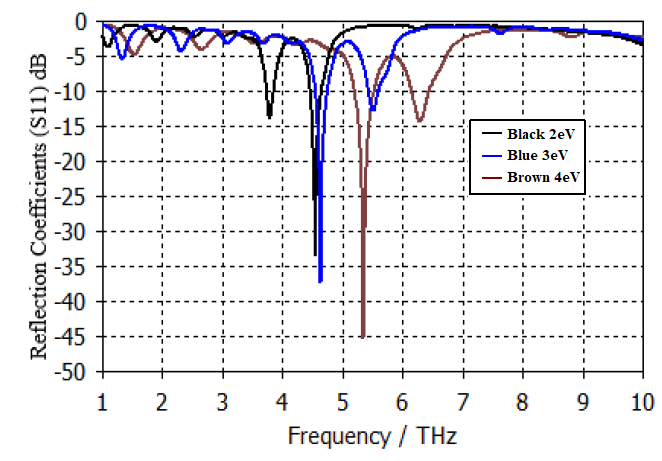
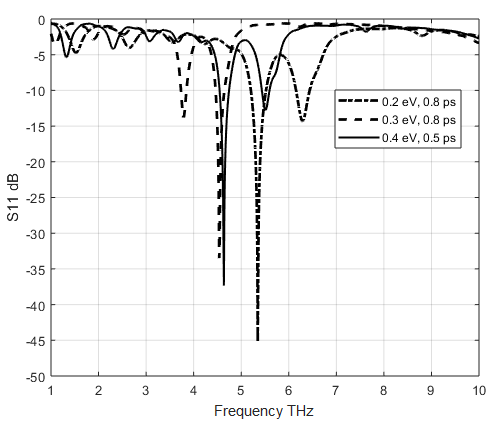
Conclusion

Changed region(s): [[0.0, 0.0308, 1.0, 0.955], [0.4167, 0.9242, 0.6845, 0.9858]]

diff --git a/des-template.tex b/des-template.tex
@@ -31,16 +31,7 @@
 % 
 % 
 Terahertz (THz) waves also known as sub-millimeter waves are observed between the optical and microwave frequency regions of the electromagnetic spectrum \cite{liu2009advanced,grischkowsky1990far}. Devices operating in the optical and infrared spectra are generally characterized by electromagnetic beams that contain many modes, and the dimensions of such devices is typically much larger than the operating wavelength. On the contrary, THz frequency based devices are comparable in size to the operating wavelength \cite{shi2018thz}. Such devices have the potential to fulfil the future wireless communications needs of ultra-high bandwidths and date rates. Moreover, the problems of channel congestion can be overcome through the use of THz based communication systems. 
-There has been an ever increasing demand of the data-based wireless communication in the past decade. Moreover, throughout the world urban population has been growing at an alarming rate. These two factors have created enormous challenges in implementing high-speed and reliable networks that can serve a large number of people at the same time \cite{song2011present}. A natural solution to overcome this challenge is to shift the network operating frequency to the THz region. However, with the available technologies, THz systems are affected by high atmospheric attenuation, and therefore, much lower propagation distances. Hence, there is a demand for novel techniques through which the performance of a THz based communication system can be increased. To do so, micro and nano scale device fabrication techniques have actively been studied of late. Additionally, the search for highly conductive materials is an active research area to develop efficient THz devices.
-
-In conventional wireless communication systems, metallic antennas are fabricated separately from the microelectronics. It is not currently possible to operate circuitry in the THz frequency region simply by down-scaling the traditional metallic antenna to a few micrometres \cite{kleine2011review}. By moving up in the frequency, the device physics changes drastically and the approach of using a metal based antenna has several limitations, chief among them is the low mobility of electrons in the nano-scale metallic structures. This results in the antennas being highly lossy at the resonant frequencies, which would result in high attenuation and subsequently, poor efficiency of the overall system \cite{pourahmadazar2018millimeter}. To address this lossy behaviour, meta-material based nano-structures have emerged as attractive solutions \cite{chen2006active}.
-% 
-% 
-% 
-\section{Terahertz Antenna Designs}
-% 
-\subsection{Graphene based Terahertz Antenna}
-% 
+There has been an ever increasing demand of the data-based wireless communication in the past decade. Moreover, throughout the world urban population has been growing at an alarming rate. These two factors have created enormous challenges in implementing high-speed and reliable networks that can serve a large number of people at the same time \cite{song2011present}. A natural solution to overcome this challenge is to shift the network operating frequency to the THz region. However, with the available technologies, THz systems are affected by high atmospheric attenuation, and therefore, much lower propagation distances. Hence, there is a demand for novel techniques through which the performance of a THz based communication system can be increased. To do so, micro and nano scale device fabrication techniques have actively been studied of late. Additionally, the search for highly conductive materials is an active research area to develop efficient THz devices.In conventional wireless communication systems, metallic antennas are fabricated separately from the microelectronics. It is not currently possible to operate circuitry in the THz frequency region simply by down-scaling the traditional metallic antenna to a few micrometres \cite{kleine2011review}. By moving up in the frequency, the device physics changes drastically and the approach of using a metal based antenna has several limitations, chief among them is the low mobility of electrons in the nano-scale metallic structures. This results in the antennas being highly lossy at the resonant frequencies, which would result in high attenuation and subsequently, poor efficiency of the overall system \cite{pourahmadazar2018millimeter}. To address this lossy behaviour, meta-material based nano-structures have emerged as attractive solutions \cite{chen2006active}.
 Graphene is an atomically thin, two-dimensional crystalline form of carbon in which the carbon atoms are arranged in a hexagonal lattice structure. It was discovered in 2004 by Novoselov and Geim, who peeled off a small amount of monolayer graphene with the help of an adhesive tape, therefore, obtaining free-standing graphene in air \cite{novoselov2004electric}. For their ground-breaking discovery, they were awarded the Nobel Prize in Physics in 2010. Graphene is considered one of the thinnest yet in terms of mechanical properties, the strongest material measured  \cite{campos2008bulk,lee2013high}. Its theoretical specific surface area is as high as \SI{2630}{\square\m\per\gram}, thermal conductivity as high as \SI{5300}{\W \per \m \per \K}, which is higher than that of carbon nano-tube and diamond. In terms of electromagnetic properties, it is almost completely transparent, absorbing only \SI{2.3}{\percent} of light. On the other hand, graphene also has a very high electron mobility of \SI{15000}{\square \cm \per\V \per \siemens} at room temperature, which is higher than that of carbon nanotube or crystalline silicon \cite{ju2011graphene}. Nonetheless, the electrical resistivity of graphene is of the order of \SI{1e-6}{\ohm \cm} lower than copper and silver, which are the considered the best conducting materials. All these attractive characteristics enable graphene to display extra-ordinary electromagnetic phenomena. When an electromagnetic wave especially in the THz frequency range is obliquely incident wave upon graphene, surface plasmon polaritons (SPPs) are excited. Due to the high conductivity of graphene, the SPPs are tightly confined to the graphene surface having wavelength much smaller than its free-space equivalent. Moreover, the graphene SPPs exhibit moderate loss, and a vital property of tuning of the resonant frequency through external electrical and magnetic bias, and chemical doping. Most importantly, the resonant frequency of graphene lies in the THz and mid-infrared frequency ranges. Hence, this property, coupled with the lightweight and flexible nature of graphene open up the possibility of creating miniaturized and flexible antenna devices operating in the THz frequency domain that are well suited for wearable applications.
 
 The electrical conductivity of graphene in the THz frequency range can be described using a semi-classical electronic model in the absence of magnetic bias. It is typically expressed in terms of the well-known frequency dependent Kubo formula, \cite{tamagnone2012analysis},
@@ -62,27 +53,28 @@ where $e$ is the electron charge, $\tau$ is the electron relaxation time in grap
 \label{eq:opto}
 \end{subequations}
 % 
-where $v_f$ is the Fermi velocity, $\mu$ is the carrier mobility of the electrons and $N$ is the carrier density. When $\mu_c$ and $N$ are low,  the complex-valued conductivity \eqref{eq:conductivity} has smaller real and imaginary parts. This leads to a poor efficiency in terms of radiation as the SPPs have a lower propagation length along the graphene surface. Therefore, in order to observe a strong resonant behaviour and improve efficiency, $\mu_c$ needs to be enhanced, which is usually done through chemical doping.
+where $v_f$ is the Fermi velocity, $\mu$ is the carrier mobility of the electrons and $N$ is the carrier density. When $\mu_c$ and $N$ are low,  the complex-valued conductivity \eqref{eq:conductivity} has smaller real and imaginary parts. This leads to a poor efficiency in terms of radiation as the SPPs have a lower propagation length along the graphene surface. Therefore, in order to observe a strong resonant behaviour and improve efficiency, $\mu_c$ needs to be enhanced, which is usually done through chemical doping.Although both the increase in $\mu_c$ and $\mu$ lead to efficient radiation, the effect on the resonant frequency is different in both cases. Moreover, an increase in the radiated energy affects the width of the resonant frequency response introducing ringing tails around the center frequency. Such broadening of the temporal response is coherent with the sharpening of the resonant behaviour that is observed when the $\mu$ is increased. On the other hand, a stronger resonant behaviour is observed when $\tau$ is increased.
+%
+%
+\\On ther other hand,  Perovskite is a sort of mineral that was first discovered in the Ural Mountains and named after a Russian scientist, Lev Perovskite  \cite{park2016organic}. A perovskite structure is any intensify that has a similar structure as the perovskite mineral. True perovskite (the mineral) is made out of calcium, titanium and oxygen in the structure \ce{CaTiO3}. Then, a perovskite structure is whatever has the conventional structure \ce{ABX3} and the equivalent crystallographic structure as the mineral perovskite \cite{chanana2017colour}. Perovskites have been widely inspected all around the world given their attractive properties especially regards to their photovoltaic and plasmonic applications \cite{song2015perovskite}. Perovskite materials display many outstanding characteristics in terms of superconductivity, ferro-electricity and high thermo-power \cite{kulkarni2012mixed}. Recently, there has been an increased interest in the leadhalide-based perovskite-type crystals owing to their extra-ordinary optical properties. They are self-organised low-dimensional crystals. However, \ce{CH3NH3PbI3} type perovskites have been recognized as promising materials, having a high carrier mobility, and diffusion length indicating that these materials can be to design antennas. Despite the attractive properties of perovskites, controlling the physical properties during the design and fabrication phased is still quite challenging, which is currently a limitation in the realization of next generation functional devices meant for high frequencies \cite{ahmad2017instability}. Moreover, various environmental factors including moisture, ultraviolet light exposure, and thermal stress play a key role in the instability of perovskite materials \cite{green2014emergence}.
 
-Although both the increase in $\mu_c$ and $\mu$ lead to efficient radiation, the effect on the resonant frequency is different in both cases. Moreover, an increase in the radiated energy affects the width of the resonant frequency response introducing ringing tails around the center frequency. Such broadening of the temporal response is coherent with the sharpening of the resonant behaviour that is observed when the $\mu$ is increased. On the other hand, a stronger resonant behaviour is observed when $\tau$ is increased.
-% 
-\subsection{Graphene-based Antenna for Wearable Applications}
+\section{Graphene-based Antenna for Wearable Applications}
 % 
 A full-wave 3D electromagnetic simulation tool, CST Microwave Studio 2018 was used to analyze different antenna designs based on graphene acting as the main radiating element. All simulations were done at room temperature (\SI{293}{\kelvin}). In the first design, a patch antenna as shown in shown in Fig. \ref{Fig 1} was analyzed, which consisted of graphene as the conducting material, and a dielectric substrate. The effect of $\mu_c$ and $\tau$ on the radiation performance of the patch antenna was assessed by varying it in the range of \SI{0.1}{\eV} to \SI{0.4}{\eV},  \SI{0.1}{\ps} to \SI{0.8}{\ps}. The return loss of the patch antenna in the THz frequency range is shown in Fig. \ref{Fig 2}. It is noted that as $\tau$ is increased, the higher-order modes of the fundamental resonant frequency become prevalent.
 % 
 \begin{figure}[hbt!]
     \centering
-    \includegraphics[width=0.6\textwidth]{1}
-    \caption{Patch Antenna with a flexible substrate and graphene as the radiating element.}
+    \includegraphics[width=0.52\textwidth]{1}
+    \caption{Patch antenna with a flexible substrate and graphene as the radiating element.}
     \label{Fig 1}
 \end{figure}
 % 
 \begin{figure}[h]
-    \centering    \includegraphics[width=0.6\textwidth]{2}
+    \centering    \includegraphics[width=0.5\textwidth]{2}
     \caption{The effect of chemical potential observed on the reflection coefficient ($\mathrm{S_{11}}$) in the THz frequency range. The value of $\mu_c$ was varied from, (black \SI{.2}{\eV}, blue \SI{.3}{\eV} to brown \SI{.4}{\eV}), whereas $\tau$ varied from \SI{.1}{\ps} to \SI{.5}{\ps}. }
     \label{Fig 2}
 \end{figure}
-% 
+
 The strongest resonance having the smallest value of ($\mathrm{S_{11}}$) is \SI{-45}{\dB} is obtained at at a chemical potential of \SI{0.4}{\eV} and \SI{0.5}{\ps} relaxation time. The resonant frequency of the graphene also changes when the chemical potential is varied. The effect is shown in Fig. \ref{Fig 2}. When $\mu_c$ has a value of \SI{0.4}{\eV}, the resonant frequency is observed at \SI{4.636}{\THz}, whereas at \SI{0.2}{\eV}, it is \SI{4.546}{\THz}. Furthermore,  the $\mathrm{S_{11}}$ started to increase from\SI{-34}{\dB} to almost \SI{-37}{\dB} . At \SI{0.4}{\eV}, $\mathrm{S_{11}}$ still below \SI{-10}{\dB} at \SI{0.1}{\ps } relaxation time, to get greater reflection coefficient, relaxation time must be increased, as result $\mathrm{S_{11}}$ increased to \SI{-45}{\dB} when relaxation time reaches \SI{0.5}{\ps }, the resonant frequency shifted to \SI{5.3}{\THz} as an alternative of \SI{4.7}{\THz} at \SI{0.3}{\eV}. The antenna has three possible resonant frequencies as shown in Table \ref{table:1}.The thickness of the substrate is evaluated to optimize the antenna performance in terms of the reflection coefficient and bandwidth. From Fig. \ref{Fig 3}, the substrate thickness obviously affects the $\mathrm{S_{11}}$ value, however, the bandwidth becomes narrower with increasing substrate thickness (Table \ref{table:2}).
 % 
 \begin{table}[hbt!]
@@ -134,8 +126,8 @@ The tunability of graphene is shown in Fig. \ref{Fig 5}, where the resonant freq
 % 
 \begin{figure}[hbt!]
 \centering
-\includegraphics[width=0.5\textwidth]{4}
-\caption{Reflection coefficient ($\mathrm{S_{11}}$) of different substrate material thickness \SI{7}{\um}, black Rogers 3006, blue Polyethylene, green polyamide, brown paper.}
+\includegraphics[width=0.51\textwidth]{4}
+\caption{Reflection coefficient ($\mathrm{S_{11}}$) of different substrate material thickness \SI{7}{\um},  Rogers 3006,Polyethylene, Polyamide, Paper.}
 \label{Fig 4}
 \end{figure}
 % 
@@ -183,7 +175,7 @@ The tunability of graphene is shown in Fig. \ref{Fig 5}, where the resonant freq
 % 
 % 
 % 
-\subsection{The Effect of Human Body on the antenna radiation characteristics}
+\section{The Effect of Human Body on the antenna radiation characteristics}
 % 
 % 
 The demand for wearable devices is expected to increase to \num{187.2}  million wearable units annually by \num{2022} \cite{hernandez2019wearable}. Wearable antenna requirements for all modern applications require lightweight, low-cost, and a flexible profile. For wireless body area network (WBAN) scenarios, the antenna design becomes more complicated than free-space environments, due to the absorption of the human skin. Human skin is a complex heterogeneous and anisotropic medium, where minuscule organs such as blood vessel and pigment content are spatially distributed in depth \cite{flynn2011modeling}. With the complexity of human skin, it is challenging to accurately describe the material, mainly due to the shapes and functions, and most importantly because of the absence of the dielectric constant measurements at high frequency \cite{alekseev2007human}. Therefore, most of the latest research simulates the human skin as three layers; epidermis, dermis, and hypodermis which represent the most essential parts of the human skin \cite{lynch1989growth}. Wearable antennas, therefore should be carefully designed to minimize skin absorption.
@@ -241,19 +233,19 @@ Figure \ref{Fig 8AE} demonstrates the scattering response of the graphene antenn
 % 
 \begin{figure}[hbt!]
     \centering
-    \includegraphics[width=0.55\textwidth]{12}
+    \includegraphics[width=0.47\textwidth]{12}
     \caption{Radiation and total efficiencies in free-space and on-body conditions.}
     \label{Fig 91}
 \end{figure}
 % 
 \begin{figure}[hbt!]
-\begin{subfigure}{.5\textwidth}
+\begin{subfigure}{.4\textwidth}
 \centering
 \includegraphics[width=.9\linewidth]{13}
 \caption{H plane}
 \label{fig:sfig10a}
 \end{subfigure}%
-\begin{subfigure}{.6\textwidth}
+\begin{subfigure}{.4\textwidth}
   \centering
   \includegraphics[width=.9\linewidth]{14}
   \caption{E plane}
@@ -263,27 +255,11 @@ Figure \ref{Fig 8AE} demonstrates the scattering response of the graphene antenn
 \label{fig 14b}
 \end{figure}
 % 
-The $\mathrm{S_{11}}$ of the graphene patch antenna for the on-body case is \SI{-25}{\dB}. The shift in frequency is due to the high dielectric constant property of three layers of the human body in proximity with the antenna. Because of these properties of the human body, most of the radiated waves propagate through the body and dissipate in the form of heat resulting in a wider \SI{-10}{\dB} bandwidth. Due to the body absorption, the antenna gain decreases from \SI{-7.8}{\dB} to \SI{-7.2}{\dB}. The antenna gain is a figure of merit of how well the antenna converts the power supplied into radiated waves in a specific direction. For the case of the on-body condition, a lower value of the gain is obtained which is due to a decrease in the radiation efficiency, down from \SI{96}{\percent} to almost \SI{50}{\percent} (Fig. \ref{Fig 91}). Therefore, the total radiated efficiency of antenna on a flat body phantom decreases by nearly a factor of two. This is due to the higher conductivity of the outer most layer skin. The antenna total efficiency in the presence of the human body also decreases due to absorption in the lossy human body tissues. 
-
-The H- and E- plane radiation patterns of the graphene patch antenna in the on-body and free-space conditions are shown in Fig. \ref{fig 14b}. The main lobe with \SI{-6.87}{\dB} is obtained at the resonance of \SI{0.647}{\THz}, while an increase in the magnitude of the main lobe is observed at on-body state with \SI{9.7}{\dB}. Similarly, the side lobe in the on-body case is \SI{-8}{\dB} and on free-space is \SI{-2}{\dB}  due to higher reflections from the body surface. A wearable graphene THz antenna is presented and tested on three layers of human skin to serve the wearable applications in modern THz systems to achieve high performance. The results show that the designed antenna presented at \SI{0.647}{\THz}, has a realized gain of \SI{7.8}{\dB} and \SI{7.2}{\dB} in the free-space and on-body cases respectively. The radiation efficiency dropped from \SI{96}{\percent} to \SI{50}{\percent} when placed on the body.
+The $\mathrm{S_{11}}$ of the graphene patch antenna for the on-body case is \SI{-25}{\dB}. The shift in frequency is due to the high dielectric constant property of three layers of the human body in proximity with the antenna. Because of these properties of the human body, most of the radiated waves propagate through the body and dissipate in the form of heat resulting in a wider \SI{-10}{\dB} bandwidth. Due to the body absorption, the antenna gain decreases from \SI{-7.8}{\dB} to \SI{-7.2}{\dB}. The antenna gain is a figure of merit of how well the antenna converts the power supplied into radiated waves in a specific direction. For the case of the on-body condition, a lower value of the gain is obtained which is due to a decrease in the radiation efficiency, down from \SI{96}{\percent} to almost \SI{50}{\percent} (Fig. \ref{Fig 91}). Therefore, the total radiated efficiency of antenna on a flat body phantom decreases by nearly a factor of two. This is due to the higher conductivity of the outer most layer skin. The antenna total efficiency in the presence of the human body also decreases due to absorption in the lossy human body tissues. The H- and E- plane radiation patterns of the graphene patch antenna in the on-body and free-space conditions are shown in Fig. \ref{fig 14b}. The main lobe with \SI{-6.87}{\dB} is obtained at the resonance of \SI{0.647}{\THz}, while an increase in the magnitude of the main lobe is observed at on-body state with \SI{9.7}{\dB}. Similarly, the side lobe in the on-body case is \SI{-8}{\dB} and on free-space is \SI{-2}{\dB}  due to higher reflections from the body surface.
+A wearable graphene THz antenna is presented and tested on three layers of human skin to serve the wearable applications in modern THz systems to achieve high performance. The results show that the designed antenna presented at \SI{0.647}{\THz}, has a realized gain of \SI{7.8}{\dB} and \SI{7.2}{\dB} in the free-space and on-body cases respectively. The radiation efficiency dropped from \SI{96}{\percent} to \SI{50}{\percent} when placed on the body.
+\section{Perovskite-based Antennas}
 % 
-\subsection{Perovskite Material}
-% 
-Perovskite is a sort of mineral that was first discovered in the Ural Mountains and named after a Russian scientist, Lev Perovskite  \cite{park2016organic}. A perovskite structure is any intensify that has a similar structure as the perovskite mineral. True perovskite (the mineral) is made out of calcium, titanium and oxygen in the structure \ce{CaTiO3}. Then, a perovskite structure is whatever has the conventional structure \ce{ABX3} and the equivalent crystallographic structure as the mineral perovskite \cite{chanana2017colour}. Perovskites have been widely inspected all around the world given their attractive properties especially regards to their photovoltaic and plasmonic applications \cite{song2015perovskite}. Perovskite materials display many outstanding characteristics in terms of superconductivity, ferro-electricity and high thermo-power \cite{kulkarni2012mixed}. Recently, there has been an increased interest in the leadhalide-based perovskite-type crystals owing to their extra-ordinary optical properties. They are self-organised low-dimensional crystals. \ce{CH3NH3PbI3} type perovskites have been recognized as promising materials, having a high carrier mobility, and diffusion length indicating that these materials can be to design antennas. Despite the attractive properties of perovskites, controlling the physical properties during the design and fabrication phased is still quite challenging, which is currently a limitation in the realization of next generation functional devices meant for high frequencies \cite{ahmad2017instability}. Moreover, various environmental factors including moisture, ultraviolet light exposure, and thermal stress play a key role in the instability of perovskite materials \cite{green2014emergence}.
-% 
-% 
-% 
-\subsection{Perovskite-based Antennas}
-% 
- With the increasing demands of high speed, reliable and secure wireless communication and safety of the user in terms of radiation exposure, research trends have shown a migration towards high-frequency THz spectrum \cite{ghann2017terahertz,rabbani2017liquid}. Recent research efforts have been focused to overcome the propagation and fabrication issues at THz and in developing THz sources, antennas, systems and applications \cite{siegel2002terahertz}. Therefore, THz devices can now be found in applications such as bio-sensing and imaging, fast and secure wireless systems, and radar communication \cite{ranzani2013g,khatib2018response}. Due to high absorption levels of THz waves by the water molecules and limited penetration ability into the human body, the probability to produce hazardous ionization of biological tissues is low, which is an advantage of current medical imaging techniques such as x-rays. 
- 
- An efficient antenna is critical in developing a high-performance THz system. Therefore, several design aspects need to be considered to develop an antenna which is able to fulfill the demands of THz applications \cite{chen2016research}. Rapid progress has been made in the utilization of low-dimensional materials moving on from traditional copper-based radiating patch, which generate high loss and poor efficiency due to decrease in skin depth and conductivity in the THz frequency band. Carbon-based materials i.e. graphene, and carbon nano-tubes have shown promise in this regard \cite{naghdehforushha2017design}. Perovskites, due to the features such as superconductivity, ferro-electricity and low cost, have gained focus in various novel applications \cite{huang2014low}.
-%  
-% 
-% 
-\subsection{Perovskite Terahertz Antenna Design}
-% 
-The proposed antenna design is numerically analysed using CST Microwave Studio 2018 at room temperature (\SI{293}{\kelvin}). Perovskite material is simulated using the measured permittivity values as described in \cite{green2014emergence}. Figure \ref{fig:fig 11b} shows the antenna design with the dimensions \SI{40}{\um} by \SI{40}{\um} by \SI{10}{\um}, consisting of a perovskite based rectangular patch, while the ground plane and feedline are made of copper. Thin flexible film of polyamide is used as a substrate.
+ With the increasing demands of high speed, reliable and secure wireless communication and safety of the user in terms of radiation exposure, research trends have shown a migration towards high-frequency THz spectrum \cite{ghann2017terahertz,rabbani2017liquid}. Recent research efforts have been focused to overcome the propagation and fabrication issues at THz and in developing THz sources, antennas, systems and applications \cite{siegel2002terahertz}. Therefore, THz devices can now be found in applications such as bio-sensing and imaging, fast and secure wireless systems, and radar communication \cite{ranzani2013g,khatib2018response}. Due to high absorption levels of THz waves by the water molecules and limited penetration ability into the human body, the probability to produce hazardous ionization of biological tissues is low, which is an advantage of current medical imaging techniques such as x-rays. An efficient antenna is critical in developing a high-performance THz system. Therefore, several design aspects need to be considered to develop an antenna which is able to fulfill the demands of THz applications \cite{chen2016research}. Rapid progress has been made in the utilization of low-dimensional materials moving on from traditional copper-based radiating patch, which generate high loss and poor efficiency due to decrease in skin depth and conductivity in the THz frequency band. Carbon-based materials i.e. graphene, and carbon nano-tubes have shown promise in this regard \cite{naghdehforushha2017design}. Perovskites, due to the features such as superconductivity, ferro-electricity and low cost, have gained focus in various novel applications \cite{huang2014low}.The proposed antenna design is numerically analysed using CST Microwave Studio at room temperature (\SI{293}{\kelvin}). Perovskite material is simulated using the measured permittivity values as described in \cite{green2014emergence}. Figure \ref{fig:fig 11b} shows the antenna design with the dimensions \SI{40}{\um} by \SI{40}{\um} by \SI{10}{\um}, consisting of a perovskite based rectangular patch, while the ground plane and feedline are made of copper. Thin flexible film of polyamide is used as a substrate.
 % 
 \begin{figure}[hbt!]
 \begin{subfigure}{.5\textwidth}
@@ -342,8 +318,10 @@ The E- and H-plane radiation patterns of the designed antenna at the three major
 \label{fig:fig 15}
 \end{figure}
 % 
-
 The THz antennas are anticipated to ensure a high resolution imagining for the biomedical applications due to their short wavelength and high directivity. Novel materials have been developed for the potential deployment in modern THz systems to achieve high performance.  A newly developed perovskite material has been used for the antenna design which can replace the conventional metallic patches. The results show that the designed antenna covers two THz bands, \SIrange{3.6}{7.4}{\THz} and \SIrange{8.25}{10}{\THz}. The realized gain of the antenna is above \SI{4}{\dB} and radiation efficiency is above \SI{70}{\percent} in overall operating bandwidth. The antenna is regarded as a potential candidate for the future short-range THz communications.
+
+\section{Conclusion}
+In this chapter, an overview of wearable antennas operating in the terahertz frequency range, and made from two-dimensional materials such as graphene is presented. The antenna designs are analyzed in realistic environments in the proximity of human skin. Characteristics such as highly miniaturized and flexible substrate materials of the antennas coupled with excellent antenna performance make these wearable antennas a strong candidate in applications of short-range wireless communication near human body. The resonant properties of the two-dimensional materials are investigated using their electronic properties.  Wireless communication in the terahertz frequency, high-resolution imaging for biosensing and disease management, and spectroscopy are anticipated to be some of the early beneficiaries of wearable and flexible antennas. Further investigations in this area of research provide interesting opportunities not only for the antenna engineers, but material scientists and physicists as well.
 % 
 % 
 \bibliography{bibliography.bib}
